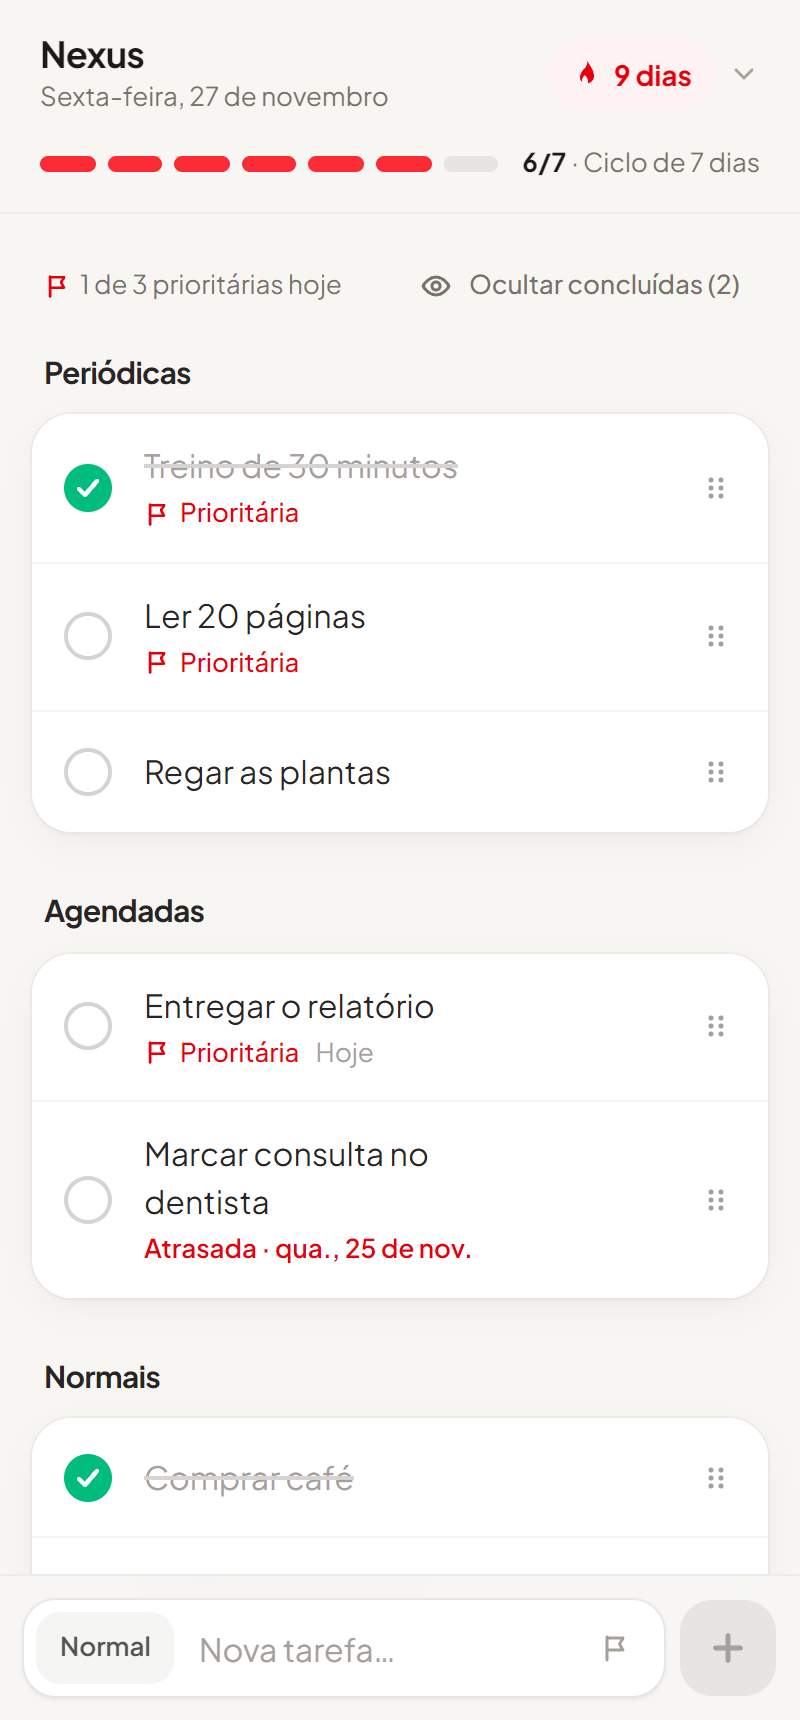
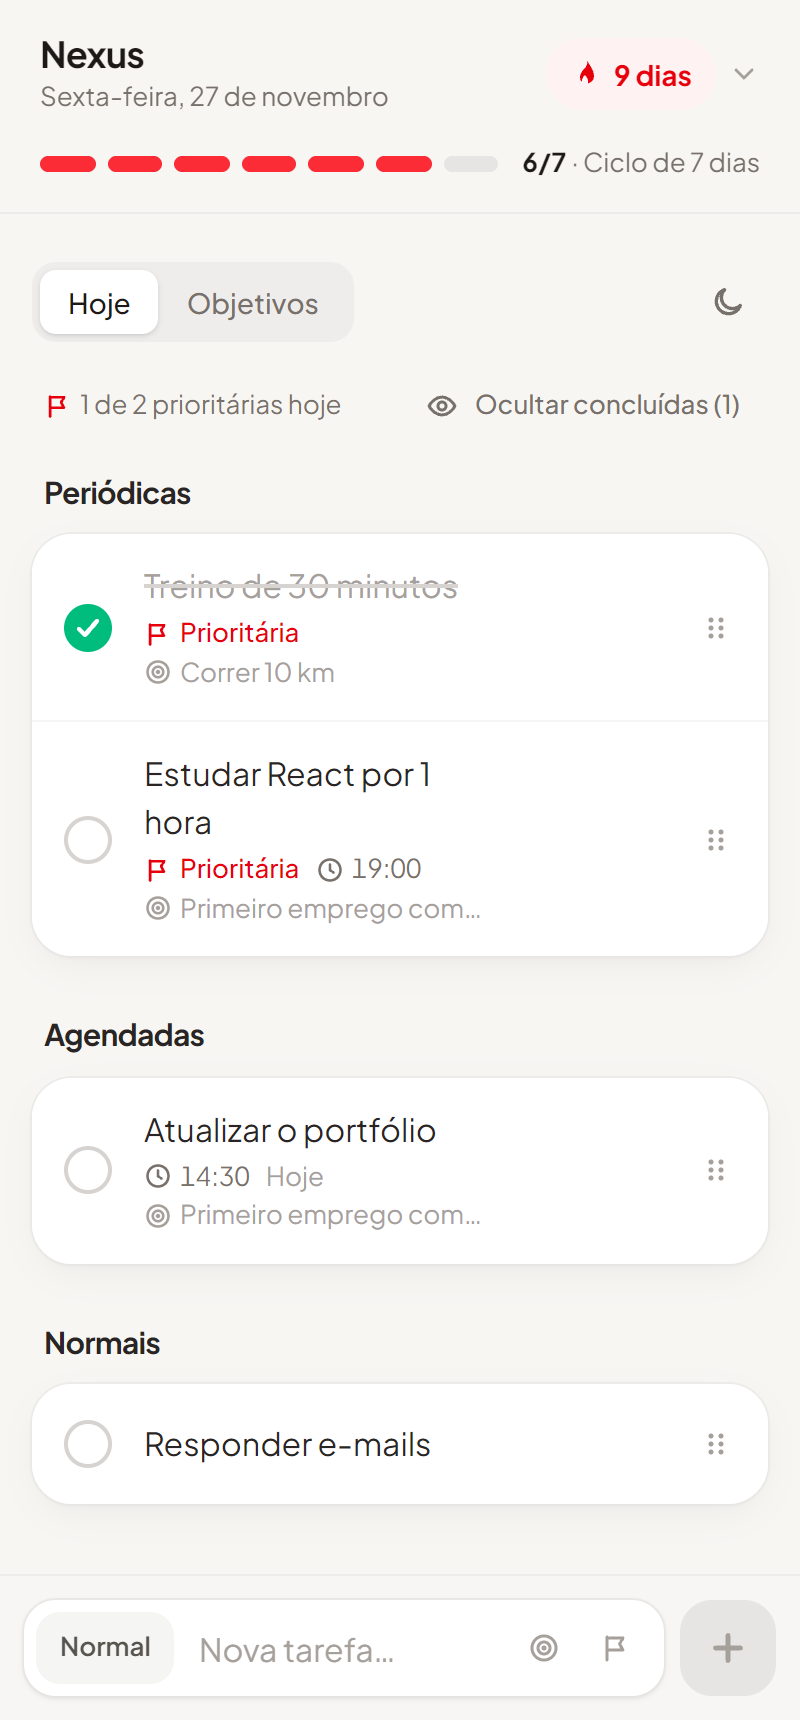
docs: update README and roadmap for v1.2
- README lists goals, task times with reminders and dark mode, with a new screenshot
- Roadmap marks v1.2 as delivered with its final scope and drops habits from later versions

diff --git a/docs/ROADMAP.md b/docs/ROADMAP.md
@@ -10,8 +10,8 @@ O Nexus centraliza a vida produtiva em um só lugar: as atividades do dia, o que
 | --- | --- | --- |
 | v1.0 | Tarefas e sequência | ✅ Entregue |
 | v1.1 | Agendamento e regra de dia feito | ✅ Entregue |
-| v1.2 | Objetivos e hábitos | ⏳ Próxima |
-| v1.3 | Aba de progresso | Planejada |
+| v1.2 | Objetivos, horários e modo escuro | ✅ Entregue |
+| v1.3 | Aba de progresso | ⏳ Próxima |
 | v2.0 | Conta e sincronização | Planejada (mínimo) |
 | v2.1 | Pomodoro | Planejada |
 | v2.2 | Escrita e galeria | Planejada |
@@ -47,23 +47,20 @@ O Nexus centraliza a vida produtiva em um só lugar: as atividades do dia, o que
 
 ---
 
-## v1.2 — Objetivos e hábitos
+## v1.2 — Objetivos, horários e modo escuro ✅
 
-**Objetivo:** ligar as tarefas do dia a um propósito maior.
-
-**Funcionalidades**
-- Cadastro de **objetivos** (com título, descrição opcional e prazo opcional).
-- Cadastro de **hábitos** (comportamentos repetidos, ex.: "programar", "desenhar").
-- Vincular uma tarefa a um objetivo ou hábito (opcional).
-- Um **objetivo de longo prazo** em destaque, editável.
-- Mensagem de sucesso, ao concluir o dia, exibindo o objetivo de longo prazo. Quando não houver objetivo cadastrado, exibir a frase padrão: *"Fazer o mínimo todos os dias é melhor que fazer muito e não acabar nada."*
-- Bônus: **modo escuro** (alternância manual, preferência salva, padrão do sistema na primeira visita).
-
-**Critérios de pronto**
-- Criar um objetivo, um hábito e vincular tarefas a cada um.
-- Mensagem de sucesso exibe o objetivo de longo prazo.
+- **Objetivos** com título, data de início e data de fim (o fim pode ser estendido); um deles pode ficar em **destaque**.
+- Vínculo opcional de tarefas a um objetivo.
+- **Progresso do objetivo**: ocorrências concluídas das tarefas vinculadas ÷ ocorrências previstas no período. Concluído quando tudo é feito ou marcado manualmente; não alcançado depois do fim.
+- Registro de cada conclusão de tarefa (base para a aba de progresso).
+- Mensagem de sucesso com o objetivo em destaque (progresso e tempo restante) ou a frase padrão: *"Fazer o mínimo todos os dias é melhor que fazer muito e não acabar nada."*
+- **Horário opcional** em agendadas e periódicas, com aviso por notificação enquanto o app está aberto.
+- Abas Hoje / Objetivos.
+- **Modo escuro** (alternância manual, preferência salva, padrão do sistema na primeira visita).
 - Migração dos dados da v1.1 sem perda.
-- Testes da lógica de vínculo.
+- Hábitos foram planejados, mas saíram do escopo: duplicavam o papel das tarefas periódicas.
+
+---
 
 ## v1.3 — Aba de progresso
 
@@ -71,12 +68,12 @@ O Nexus centraliza a vida produtiva em um só lugar: as atividades do dia, o que
 
 **Funcionalidades**
 - Totais: dias concluídos, melhor sequência, ciclos completos.
-- Frequência de cada hábito (por semana e por mês).
+- Frequência das tarefas periódicas (por semana e por mês).
 - Objetivos concluídos.
 - **Mapa de calor anual** (um quadrado por dia, intensidade proporcional ao que foi concluído), no estilo do gráfico de contribuições do GitHub.
 
 **Critérios de pronto**
-- Métricas calculadas a partir das datas de conclusão já registradas desde a v1.1.
+- Métricas calculadas a partir do registro de conclusões, mantido desde a v1.2.
 - Funções de agregação puras e testadas.
 - Visualização legível no celular.
 
@@ -89,14 +86,14 @@ O Nexus centraliza a vida produtiva em um só lugar: as atividades do dia, o que
 **Funcionalidades**
 - Cadastro, login e logout.
 - Dados armazenados em banco de dados no servidor.
-- API para tarefas, objetivos, hábitos e sequência.
+- API para tarefas, objetivos e sequência.
 - Sincronização entre celular e computador.
 - Migração dos dados do `localStorage` para a conta no primeiro login.
 - Funcionamento básico offline, com sincronização ao reconectar (desejável).
 
 **Notas técnicas**
 - Autenticação com biblioteca consolidada; senhas nunca armazenadas em texto puro.
-- Modelagem relacional sugerida: `users`, `tasks`, `task_completions`, `goals`, `habits`.
+- Modelagem relacional sugerida: `users`, `tasks`, `task_completions`, `goals`.
 - Regras de negócio (agendamento, sequência) continuam em funções puras, reaproveitadas no servidor.
 - Cada usuário acessa apenas os próprios dados (verificação em toda rota da API).
 - Segredos apenas em variáveis de ambiente.
@@ -114,7 +111,7 @@ O Nexus centraliza a vida produtiva em um só lugar: as atividades do dia, o que
 - Cronômetro com foco de 25 min e pausas de 5/15 min (todos ajustáveis).
 - Vínculo opcional com uma tarefa.
 - Pausar, retomar e encerrar antes do fim.
-- Tempo total registrado por tarefa e por hábito, exibido na aba de progresso.
+- Tempo total registrado por tarefa e por objetivo, exibido na aba de progresso.
 
 ## v2.2 — Escrita e galeria
 
@@ -129,7 +126,7 @@ O Nexus centraliza a vida produtiva em um só lugar: as atividades do dia, o que
 ## v2.3 — Agenda e notificações
 
 - Visões de dia, mês e ano com as atividades planejadas.
-- Notificações próprias via PWA (lembretes de tarefas agendadas e do fim do dia).
+- Notificações via push, mesmo com o app fechado (lembretes de tarefas com horário e do fim do dia). A v1.2 já avisa enquanto o app está aberto.
 - Preferências de notificação por usuário.
 
 ---

diff --git a/README.md b/README.md
@@ -2,12 +2,12 @@
 
 **Tarefas do dia e uma sequência que te mantém constante.**
 
-O Nexus é um app de tarefas minimalista, pensado para o celular, com uma ideia central: separar o que é *importante fazer hoje* do resto, e transformar a constância em uma sequência de dias. Você marca o que é prioritário, conclui, e o medidor no topo avança — 3 dias de aquecimento e depois ciclos de 7.
+O Nexus é um app de tarefas minimalista, pensado para o celular, com uma ideia central: separar o que é *importante fazer hoje* do resto, e transformar a constância em uma sequência de dias. Você marca o que é prioritário, conclui, e o medidor no topo avança — 3 dias de aquecimento e depois ciclos de 7. As tarefas podem ser ligadas a objetivos com início e fim, que mostram o quanto você avançou.
 
 🔗 **Acesse:** [nexusproductivity.com](https://nexusproductivity.com)
 
 <p align="center">
-  <img src="docs/screenshot.png" alt="Tela do Nexus com tarefas periódicas, agendadas e normais, e o medidor de sequência no topo" width="360" />
+  <img src="docs/screenshot.png" alt="Tela do Nexus com as abas Hoje e Objetivos, tarefas periódicas, agendadas e normais, e o medidor de sequência no topo" width="360" />
 </p>
 
 ## Funcionalidades
@@ -17,10 +17,13 @@ O Nexus é um app de tarefas minimalista, pensado para o celular, com uma ideia 
   - **Periódica por dias da semana:** aparece só nos dias escolhidos (ex.: seg, qua, sex) e volta desmarcada no próximo dia em que se aplica.
   - **Periódica a cada X dias:** aparece a cada 2 a 30 dias a partir de uma data de início.
   - **Agendada:** aparece a partir de uma data e, se passar do dia sem ser concluída, é marcada como **atrasada**.
+- **Horário opcional** em agendadas e periódicas: a tarefa aparece desde o início do dia e o app avisa no horário com uma notificação (enquanto estiver aberto).
 - **Prioridade:** qualquer tarefa pode ser prioritária. São as prioritárias que decidem se o dia conta para a sequência (veja a regra abaixo).
 - **Sequência diária:** medidor de 3 dias de aquecimento seguido de ciclos de 7 dias, com estatísticas de sequência atual, recorde, ciclos completos e dias concluídos.
+- **Objetivos:** com data de início e de fim, um deles em destaque. Tarefas vinculadas fazem o progresso avançar quando são concluídas nos dias previstos; o objetivo em destaque aparece na mensagem de "Tudo concluído por hoje!".
 - **Funciona sem abrir todo dia:** ao abrir o app, todos os dias desde a última visita são avaliados.
-- **Organização:** listas separadas (Periódicas, Agendadas, Normais), arrastar para reordenar, editar, ocultar concluídas.
+- **Organização:** abas Hoje / Objetivos, listas separadas (Periódicas, Agendadas, Normais), arrastar para reordenar, editar, ocultar concluídas.
+- **Modo escuro:** segue o tema do sistema até você escolher um.
 - **PWA:** pode ser instalado na tela inicial do celular.
 - **Privado por padrão:** tudo fica no `localStorage` do navegador. Sem conta, sem servidor, sem rastreamento.
 
@@ -80,13 +83,18 @@ pnpm build      # build de produção
 ## Estrutura
 
 ```
+public/
+└── sw.js           # service worker mínimo para as notificações
 src/
 ├── app/            # rotas, layout, manifest e ícones do PWA
-├── components/     # interface (lista, formulário, medidor de progresso…)
+├── components/     # interface (lista, formulário, objetivos, medidor de progresso…)
 └── lib/            # regras puras e testadas
-    ├── dates.ts      # datas no fuso local
+    ├── dates.ts      # datas e horários no fuso local
     ├── schedule.ts   # em que dias cada tarefa aparece
     ├── streak.ts     # regra do dia feito e sequência
     ├── tasks.ts      # criar, editar, concluir, reordenar
+    ├── goals.ts      # objetivos, progresso e mensagem de sucesso
+    ├── reminders.ts  # quais tarefas avisar e quando
+    ├── theme.ts      # tema claro/escuro
     └── storage.ts    # leitura, validação e migração do localStorage
 ```
